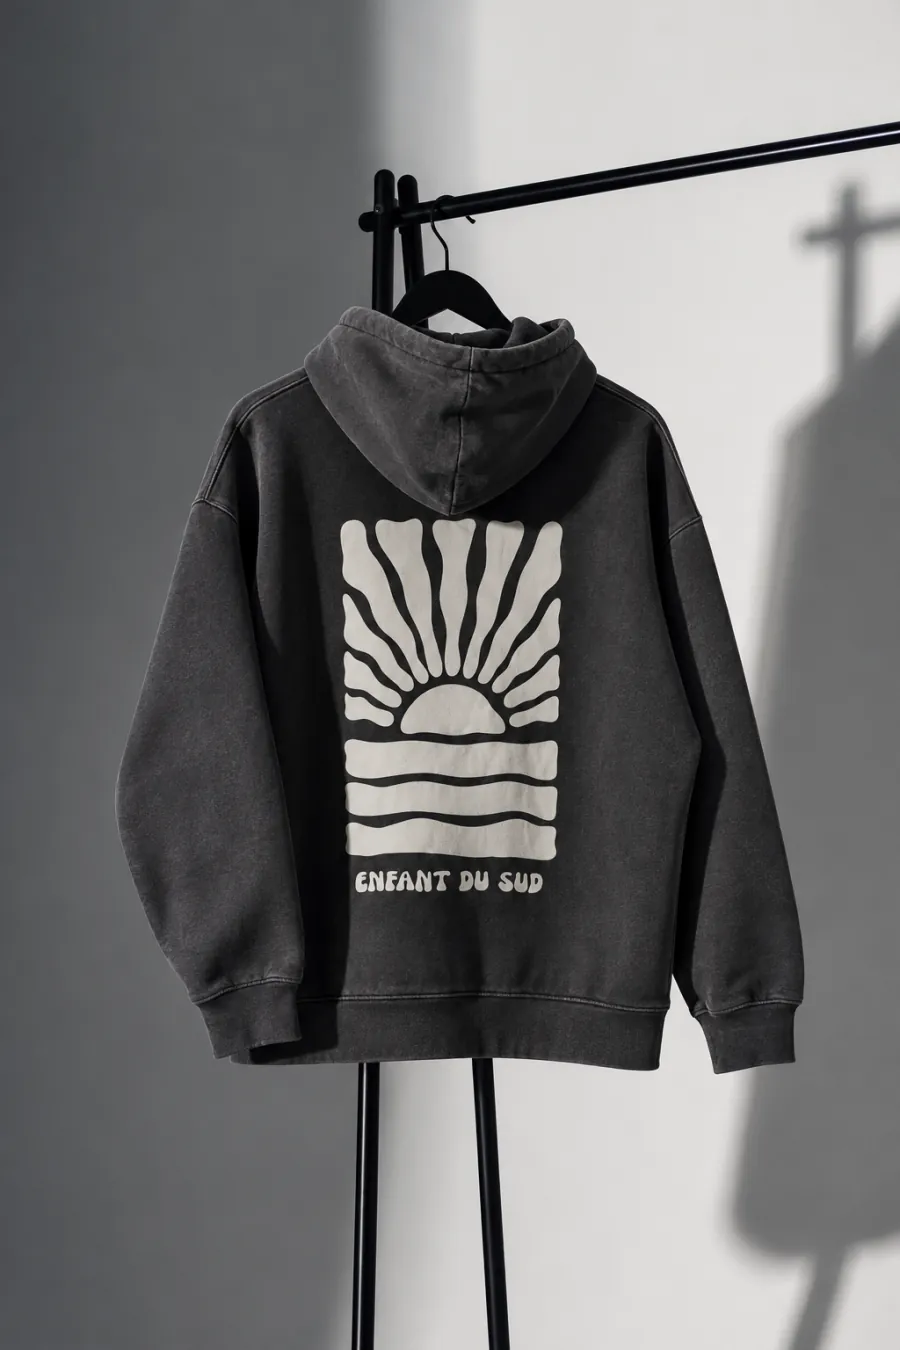
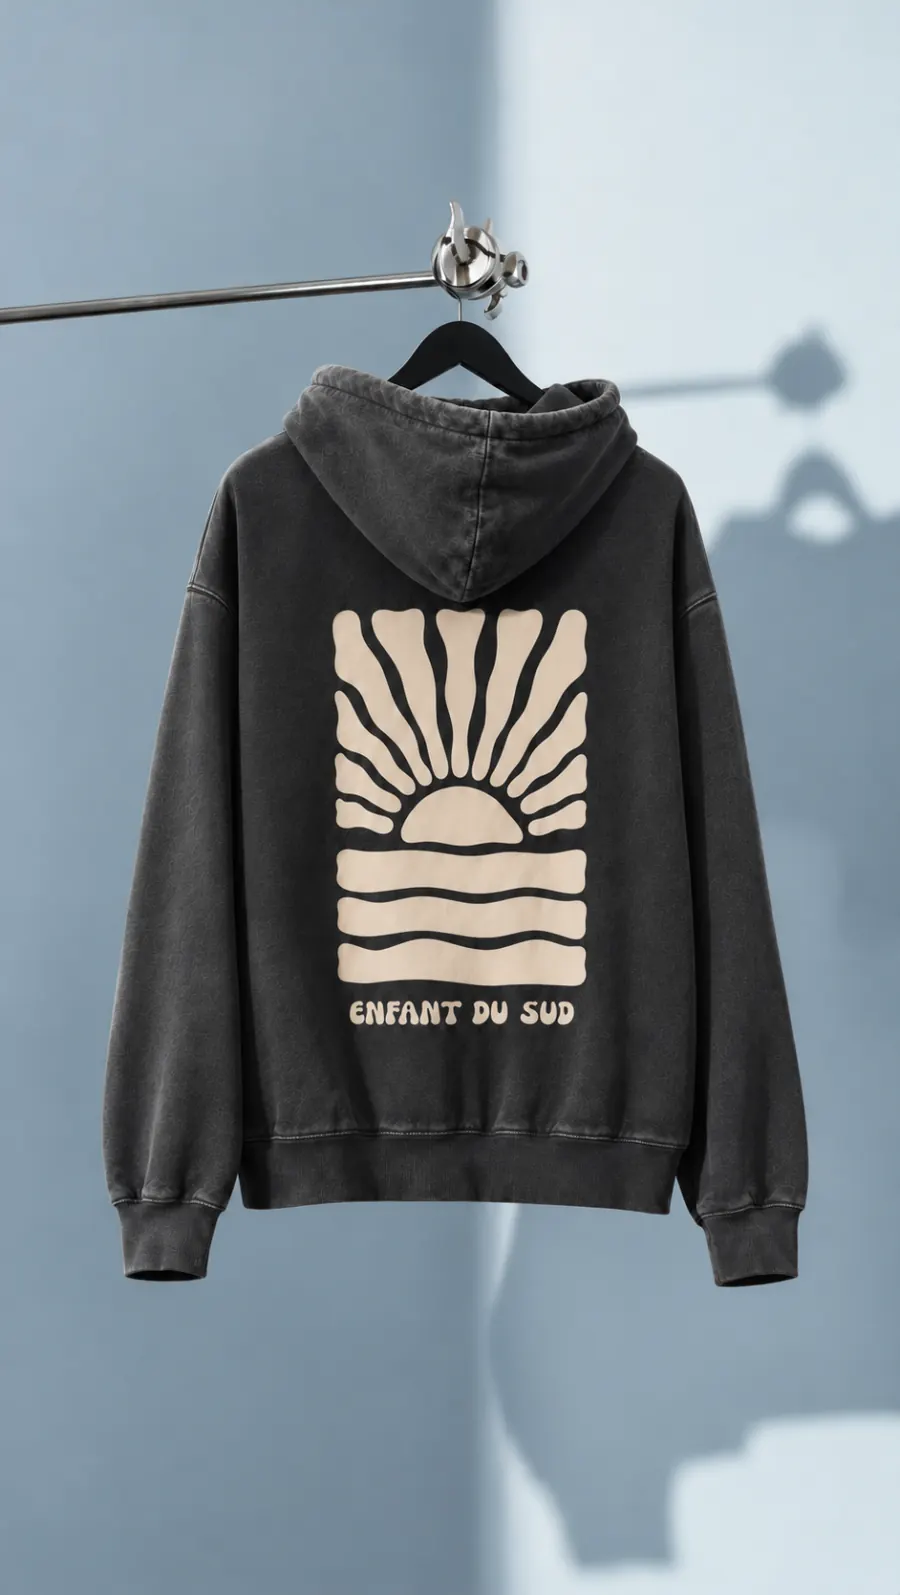
Nouvelles photos de Plein cagnard et du Minot du Sud, étiquette « Sweats » sur Plein cagnard
Les 4 anciennes photos sont gardées dans sources/photos-archive.

diff --git a/app.js b/app.js
@@ -14,8 +14,8 @@ var GARRIGUE_P2='/photos/garrigue_p2.webp?v=36d1541475';
 var GARRIGUE_P3='/photos/garrigue_p3.webp?v=2a7800495d';
 var HOODIES_SHOWCASE='/photos/hoodies_showcase.webp?v=be0b971416';
 var MANCHES_LONGUES_SHOWCASE='/photos/manches_longues_showcase.webp?v=c3901814d4';
-var MINOT_ARRIERE='/photos/minot_arriere.webp?v=6ecf116b6e';
-var MINOT_AVANT='/photos/minot_avant.webp?v=1b28cb11fc';
+var MINOT_ARRIERE='/photos/minot_arriere.webp?v=2140e894df';
+var MINOT_AVANT='/photos/minot_avant.webp?v=ab6f8d3bce';
 var MISTRAL_ARRIERE='/photos/mistral_arriere.webp?v=d54dc4c91a';
 var MISTRAL_AVANT='/photos/mistral_avant.webp?v=328ee55e37';
 var PETITMATIN_ARRIERE='/photos/petitmatin_arriere.webp?v=ba5523e580';
@@ -23,8 +23,8 @@ var PETITMATIN_AVANT='/photos/petitmatin_avant.webp?v=37514bd25e';
 var PILAT_P1='/photos/pilat_p1.webp?v=91fdedc455';
 var PINEDE_ARRIERE='/photos/pinede_arriere.webp?v=4547dce6b5';
 var PINEDE_AVANT='/photos/pinede_avant.webp?v=7275410c7c';
-var PLEINCAGNARD_ARRIERE='/photos/pleincagnard_arriere.webp?v=03ba1c2632';
-var PLEINCAGNARD_AVANT='/photos/pleincagnard_avant.webp?v=4ceda5d184';
+var PLEINCAGNARD_ARRIERE='/photos/pleincagnard_arriere.webp?v=8bc7ffdd03';
+var PLEINCAGNARD_AVANT='/photos/pleincagnard_avant.webp?v=050779d86d';
 var SABLE_ARRIERE='/photos/sable_arriere.webp?v=bccefefd4e';
 var SABLE_AVANT='/photos/sable_avant.webp?v=710f312534';
 var SOLEILCOUCHANT_ARRIERE='/photos/soleilcouchant_arriere.webp?v=6afa0c0092';
@@ -1987,7 +1987,7 @@ function ProductCard({
     style: {
       opacity: 0.5
     }
-  }, p.cat === 'SWEATS' ? 'HOODIES' : p.cat), /*#__PURE__*/React.createElement("h3", {
+  }, p.etiquette || (p.cat === 'SWEATS' ? 'HOODIES' : p.cat)), /*#__PURE__*/React.createElement("h3", {
     className: "font-typewriter text-lg mb-2"
   }, p.name), /*#__PURE__*/React.createElement("p", {
     className: "font-serif text-sm leading-relaxed mb-3 flex-1",
@@ -2265,7 +2265,7 @@ function ProductModal({
     style: {
       opacity: 0.45
     }
-  }, p.cat === 'SWEATS' ? 'HOODIES' : p.cat), /*#__PURE__*/React.createElement("h2", {
+  }, p.etiquette || (p.cat === 'SWEATS' ? 'HOODIES' : p.cat)), /*#__PURE__*/React.createElement("h2", {
     className: "font-typewriter mb-3",
     style: {
       fontSize: '1.6rem',
@@ -2891,6 +2891,7 @@ function TypiqueSite() {
   }, {
     id: 'sw-pleincagnard',
     cat: 'SWEATS',
+    etiquette: 'SWEATS',
     name: 'Plein cagnard',
     sizeNote: '50 % coton recyclé, 50 % coton biologique, 400 g/m² · Coupe oversize · Laver à 30° à l\'envers',
     color: {

diff --git a/design_handoff_typique_site/typique-site.jsx b/design_handoff_typique_site/typique-site.jsx
@@ -1294,7 +1294,7 @@ function ProductCard({ product: p, onAddToCart, dropStatus, onOpenDetail }) {
 
       {/* INFOS */}
       <div className="p-5 flex flex-col flex-1" style={{ color: '#0F2865' }}>
-        <p className="font-serif-fine italic text-xs uppercase tracking-[0.3em] mb-1.5" style={{ opacity: 0.5 }}>{p.cat === 'SWEATS' ? 'HOODIES' : p.cat}</p>
+        <p className="font-serif-fine italic text-xs uppercase tracking-[0.3em] mb-1.5" style={{ opacity: 0.5 }}>{p.etiquette || (p.cat === 'SWEATS' ? 'HOODIES' : p.cat)}</p>
         <h3 className="font-typewriter text-lg mb-2">{p.name}</h3>
         <p className="font-serif text-sm leading-relaxed mb-3 flex-1" style={{ opacity: 0.72 }}>{p.desc}</p>
         <div className="mt-auto">
@@ -1428,7 +1428,7 @@ function ProductModal({ product: p, onClose, onAddToCart, dropStatus, onOpenAide
           {/* COLONNE DROITE — infos */}
           <div style={{ flex: 1, padding: '40px 36px 36px', overflowY: 'auto', color: '#0F2865', display: 'flex', flexDirection: 'column' }}
             className="modal-info-col">
-            <p className="font-serif-fine italic text-xs uppercase tracking-[0.3em] mb-2" style={{ opacity: 0.45 }}>{p.cat === 'SWEATS' ? 'HOODIES' : p.cat}</p>
+            <p className="font-serif-fine italic text-xs uppercase tracking-[0.3em] mb-2" style={{ opacity: 0.45 }}>{p.etiquette || (p.cat === 'SWEATS' ? 'HOODIES' : p.cat)}</p>
             <h2 className="font-typewriter mb-3" style={{ fontSize: '1.6rem', lineHeight: 1.15 }}>{p.name}</h2>
             <p className="font-serif leading-relaxed mb-6" style={{ opacity: 0.72, fontSize: '0.95rem' }}>{p.desc}</p>
 
@@ -1864,7 +1864,7 @@ function TypiqueSite() {
       photos: [PETITMATIN_AVANT, PETITMATIN_ARRIERE], bg: '#E8E3DB'
     },
     {
-      id: 'sw-pleincagnard', cat: 'SWEATS',
+      id: 'sw-pleincagnard', cat: 'SWEATS', etiquette: 'SWEATS',
       name: 'Plein cagnard',
       sizeNote: '50 % coton recyclé, 50 % coton biologique, 400 g/m² · Coupe oversize · Laver à 30° à l\'envers',
       color: { hex: '#EDE8DF', label: 'Crème' },

diff --git a/index.html b/index.html
@@ -112,7 +112,7 @@
 <script>
   // Réglage du drop, écrit par tools/build.py d'après reglage-drop.ini (heures en millisecondes).
   // mode : « automatique » (réglage normal), « attente » (boutique jamais montrée) ou « boutique » (toujours montrée).
-  var ACCUEIL = {"nom":"Drop 02","mode":"automatique","ouverture":1793962800000,"fermeture":1795734000000,"ouvertureTexte":"le vendredi 6 novembre à 12 h","ressources":{"css":"/boutique.css?v=b03a9c2a17","scripts":["/vendor/react.production.min.js?v=aa77ae4c49","/vendor/react-dom.production.min.js?v=feb8ddc9d0","/app.js?v=515430702e"],"fontes":"https://fonts.googleapis.com/css2?family=Inter:wght@300;400;500;600&family=Special+Elite&family=EB+Garamond:ital,wght@0,400;0,500;1,400&family=Cormorant:ital,wght@0,400;0,500;1,400&family=Cormorant+Garamond:ital,wght@0,400;0,600;1,400;1,600&display=swap"}};
+  var ACCUEIL = {"nom":"Drop 02","mode":"automatique","ouverture":1793962800000,"fermeture":1795734000000,"ouvertureTexte":"le vendredi 6 novembre à 12 h","ressources":{"css":"/boutique.css?v=b03a9c2a17","scripts":["/vendor/react.production.min.js?v=aa77ae4c49","/vendor/react-dom.production.min.js?v=feb8ddc9d0","/app.js?v=ba049c27ef"],"fontes":"https://fonts.googleapis.com/css2?family=Inter:wght@300;400;500;600&family=Special+Elite&family=EB+Garamond:ital,wght@0,400;0,500;1,400&family=Cormorant:ital,wght@0,400;0,500;1,400&family=Cormorant+Garamond:ital,wght@0,400;0,600;1,400;1,600&display=swap"}};
   // Les trois états de l'accueil, d'après l'heure donnée : avant l'ouverture, drop ouvert, après la fermeture.
   // En mode « attente », un drop ouvert s'appelle « pause » (page d'attente avec un autre texte).
   function etatDuDrop(ms) {

diff --git a/apercu/index.html b/apercu/index.html
@@ -106,7 +106,7 @@
 })();</script>
   <script defer src="/vendor/react.production.min.js?v=aa77ae4c49"></script>
   <script defer src="/vendor/react-dom.production.min.js?v=feb8ddc9d0"></script>
-  <script defer src="/app.js?v=515430702e"></script>
+  <script defer src="/app.js?v=ba049c27ef"></script>
   <link rel="stylesheet" href="/boutique.css?v=b03a9c2a17"/>
   <style>#loading-screen{position:fixed;inset:0;background:#F4F1EC;z-index:999999;display:flex;flex-direction:column;align-items:center;justify-content:center;gap:24px;transition:opacity 0.6s ease}
 #loading-screen.hide{opacity:0;pointer-events:none}
